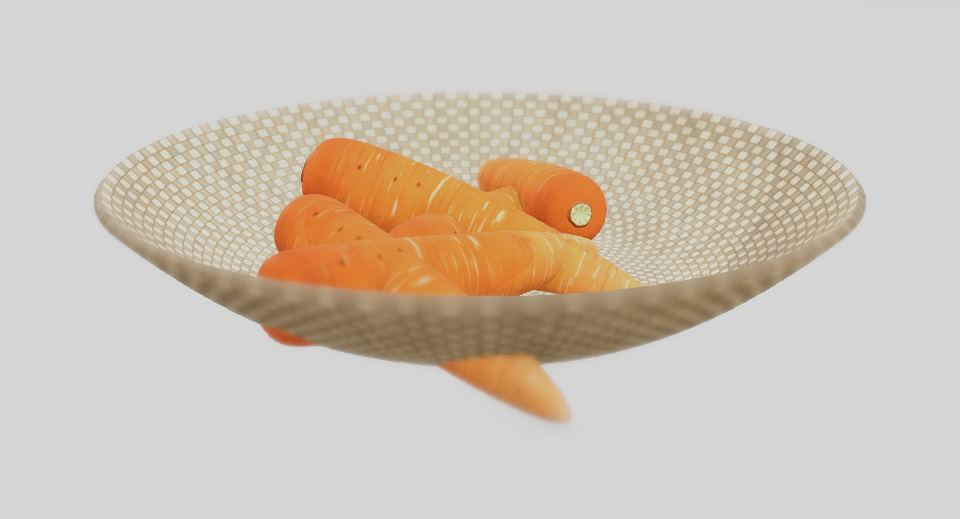
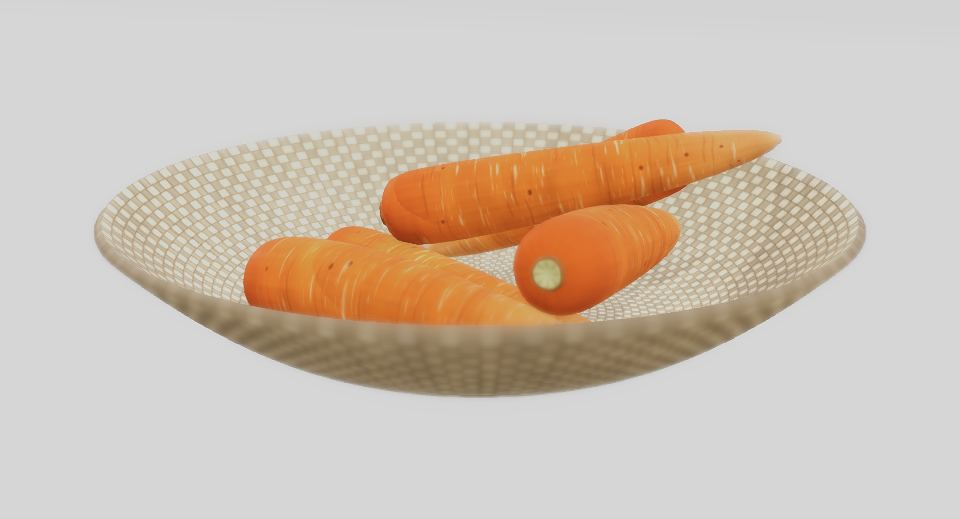
サムネイルを撮り直した（Havok の wasm を配れておらず物理が死んでいた）
野菜がざるを突き抜けて写っていた。原因は収録側で、Havok の
HavokPhysics_umd.js だけをローカルに置いて HavokPhysics.wasm を
配っていなかったこと。HavokPhysics() は自分と同じ場所から wasm を
読みに行くため初期化に失敗し、サンプルは「物理が無いときは一列に
並べる」フォールバックへ黙って落ちていた。絵は出るが、ざるは
曲面なので端の個体が壁を貫通する。

直したこと:
  ・wasm も落として application/wasm で配る
  ・撮る前に scene.getPhysicsEngine() を確かめ、動いていなければ
    そのサンプルは失敗として扱う（黙って嘘の絵を出さない）。
    ただしサクランボ・スイカ・バナナ・ブドウ・メロン・リンゴ・玉ねぎの
    7本はもともと物理を使わない単体撮りなので、ソースに
    HavokPhysics() があるサンプルにだけ課す
  ・静止判定を作り直した。剛体の速度を読んでいたつもりが1つも
    取れておらず（全サンプルで 0.00）、実質「3秒待っただけ」に
    なっていた。位置と境界ボックスの対角2点を実測して、
    前回から誰も動いていない状態が続くまで待つ

23本すべて撮り直し。物理を使う16本は、ざるに収まった状態になった。

Changed region(s): [[0.0938, 0.1541, 0.9062, 0.8324]]

diff --git a/tools/shoot.js b/tools/shoot.js
@@ -46,9 +46,10 @@ const BUILD_TIMEOUT = +(process.env.SHOOT_BUILD_TIMEOUT || 300000);
  *         そこで「もの（メッシュ）が増えず、動かなくなった」ことを見て待つ */
 const SETTLE_TIMEOUT = 150000;
 const STABLE_POLLS = 2;        // 個数がこれだけ連続で同じなら投入は済み
-const GIVEUP_POLLS = 12;       // 速度が落ちきらないサンプル用の保険
+const STILL_POLLS = 3;         // 誰も動かない状態がこれだけ続いたら完了
+const GIVEUP_POLLS = 14;       // 止まりきらないサンプル用の保険
 const POLL_EVERY = 1500;
-const SETTLE_SPEED = 1.0;      // これ以下なら「転がり終わった」（cm/s 相当）
+const SETTLE_MOVE = 0.02;      // 1回ぶんの間にこれ以下しか動かなければ静止（cm）
 
 const only = process.argv[2];
 const files = fs
@@ -150,14 +151,32 @@ window.__hideGui = function () {
            にし、静まったら STATIC に固定するので、
            「見えているものの数」と「いちばん速いものの速さ」を見れば確実 */
 window.__sig = function () {
-    var s = window.__scene; if (!s) return "0:99";
-    var n = 0, vmax = 0;
+    var s = window.__scene; if (!s) return "0:99:99";
+    var n = 0, vmax = 0, bodies = 0;
+    var cur = [];
     var list = s.meshes.concat(s.transformNodes || []);
     for (var i = 0; i < list.length; i++) {
         var m = list[i];
-        if (m.getTotalVertices && m.getTotalVertices() && m.isEnabled()) n++;
+        var real = m.getTotalVertices && m.getTotalVertices() && m.isEnabled();
+        if (real) {
+            n++;
+            // 【対策】剛体の速度だけを見ていたら、全サンプルで 0.00 と出た。
+            //         止まったからではなく読めていなかったので、落下の
+            //         途中で「静止した」と判定して撮ってしまい、野菜が
+            //         ざるを突き抜けた絵になった。位置と姿勢を実測する
+            m.computeWorldMatrix(true);
+            var p = m.getAbsolutePosition();
+            cur.push(p.x, p.y, p.z);
+            var bb = m.getBoundingInfo && m.getBoundingInfo().boundingBox;
+            if (bb) {
+                // 回転だけしているものも捉えたいので、対角の2点も見る
+                cur.push(bb.vectorsWorld[0].x, bb.vectorsWorld[0].y, bb.vectorsWorld[0].z);
+                cur.push(bb.vectorsWorld[7].x, bb.vectorsWorld[7].y, bb.vectorsWorld[7].z);
+            }
+        }
         var b = m.physicsBody;
         if (b) {
+            bodies++;
             try {
                 var v = b.getLinearVelocity().length();
                 var w = b.getAngularVelocity().length();
@@ -166,7 +185,18 @@ window.__sig = function () {
             } catch (e) { /* STATIC に落とされた後は読めないことがある */ }
         }
     }
-    return n + ":" + vmax.toFixed(2);
+    // 前回からいちばん大きく動いた距離（cm）
+    var prev = window.__prevPos, motion = 999;
+    window.__prevPos = cur;
+    if (prev && prev.length === cur.length) {
+        motion = 0;
+        for (var k = 0; k < cur.length; k += 3) {
+            var dx = cur[k] - prev[k], dy = cur[k + 1] - prev[k + 1], dz = cur[k + 2] - prev[k + 2];
+            var dd = Math.sqrt(dx * dx + dy * dy + dz * dz);
+            if (dd > motion) motion = dd;
+        }
+    }
+    return n + ":" + motion.toFixed(4) + ":" + bodies + "/" + vmax.toFixed(2);
 };
 
 /* 描かれた絵そのものを走査して、野菜の写っている範囲を返す。
@@ -288,13 +318,22 @@ window.__geoFrame = function () {
 /* 診断用。どのメッシュが枠の計算に入ったかを見る */
 window.__dump = function () {
     var s = window.__scene, out = [];
-    for (var i = 0; i < s.meshes.length; i++) {
-        var m = s.meshes[i];
-        out.push(m.name + " v=" + (m.getTotalVertices ? m.getTotalVertices() : 0) +
-            " en=" + (m.isEnabled() ? 1 : 0) + " vis=" + (m.isVisible ? 1 : 0) +
-            " r=" + (m.getBoundingInfo ? m.getBoundingInfo().boundingSphere.radiusWorld.toFixed(2) : "?"));
+    var all = s.meshes.concat(s.transformNodes || []);
+    for (var i = 0; i < all.length && i < 40; i++) {
+        var m = all[i];
+        m.computeWorldMatrix(true);
+        var p = m.getAbsolutePosition();
+        out.push(m.name +
+            " v=" + (m.getTotalVertices ? m.getTotalVertices() : 0) +
+            " en=" + (m.isEnabled() ? 1 : 0) +
+            " par=" + (m.parent ? m.parent.name : "-") +
+            " body=" + (m.physicsBody ? 1 : 0) +
+            " imp=" + (m.physicsImpostor ? 1 : 0) +
+            " y=" + p.y.toFixed(2));
     }
-    return out.join(" / ");
+    out.push("[meshes=" + s.meshes.length + " nodes=" + (s.transformNodes || []).length +
+        " engine=" + (s.getPhysicsEngine() ? "yes" : "no") + "]");
+    return out.join("  ||  ");
 };
 </script></body></html>`;
 
@@ -302,10 +341,16 @@ window.__dump = function () {
    【対策】毎回 CDN から読ませていたら、何十回も走らせるうちに
            読み込みが落ちるようになり、「組み立てが終わりません」で
            止まるサンプルが出た。手元に置いてしまえば起きない */
+/* 【対策】UMD だけ置いても足りない。HavokPhysics() は自分と同じ場所から
+ *         HavokPhysics.wasm を読みに行くので、これを配り忘れると
+ *         物理の初期化が黙って失敗する。サンプル側は物理が無ければ
+ *         「一列に並べる」フォールバックに落ちるので、絵は出るが
+ *         野菜がざるを突き抜けた状態で撮れてしまう */
 const LIBS = {
   "babylon.js": "https://cdn.babylonjs.com/babylon.js",
   "babylon.gui.min.js": "https://cdn.babylonjs.com/gui/babylon.gui.min.js",
-  "HavokPhysics_umd.js": "https://cdn.babylonjs.com/havok/HavokPhysics_umd.js"
+  "HavokPhysics_umd.js": "https://cdn.babylonjs.com/havok/HavokPhysics_umd.js",
+  "HavokPhysics.wasm": "https://cdn.babylonjs.com/havok/HavokPhysics.wasm"
 };
 const LIBDIR = path.join(require("os").tmpdir(), "vvp-shoot-lib");
 
@@ -342,7 +387,10 @@ const server = http.createServer((req, res) => {
     const name = path.basename(u.pathname);
     const p = path.join(LIBDIR, name);
     if (!LIBS[name] || !fs.existsSync(p)) { res.writeHead(404); return res.end(); }
-    res.writeHead(200, { "content-type": "application/javascript; charset=utf-8" });
+    res.writeHead(200, {
+      "content-type": name.endsWith(".wasm")
+        ? "application/wasm" : "application/javascript; charset=utf-8"
+    });
     return res.end(fs.readFileSync(p));
   }
   if (u.pathname === "/sample") {
@@ -494,6 +542,8 @@ function findChrome() {
   const done = [], failed = [];
   for (const f of files) {
     const label = f.replace(/\.js$/, "");
+    // ざるに盛るサンプルだけ物理を使う。1個だけのスタジオ撮りは使わない
+    const needsPhysics = fs.readFileSync(path.join(ROOT, f), "utf8").includes("HavokPhysics()");
     process.stdout.write("  " + label.padEnd(14, "　") + " ");
     const t0 = Date.now();
     let page = null;
@@ -520,6 +570,18 @@ function findChrome() {
         state = r.result.value || "loading";
         if (state !== "loading") break;
       }
+      if (state === "built") {
+        // 【対策】物理が死んでいても絵は出る。ただしサンプルは
+        //         「一列に並べる」フォールバックに落ちるので、
+        //         ざるを突き抜けた嘘の絵になる。撮る前に必ず確かめる
+        const phys = (await page.send("Runtime.evaluate", {
+          expression: "!!(window.__scene && window.__scene.getPhysicsEngine())",
+          returnByValue: true
+        })).result.value;
+        if (needsPhysics && !phys) {
+          throw new Error("物理エンジンが動いていません（Havok の wasm を配れていない可能性）");
+        }
+      }
       if (state !== "built") {
         // 何が読めていないのかが分からないと直しようがないので、状況を添える
         const diag = (await page.send("Runtime.evaluate", {
@@ -536,29 +598,36 @@ function findChrome() {
       // 盛り付けが終わる（増えも動きもしなくなる）まで待つ。
       // 待っているあいだは粗く描いて、物理を実時間で進める
       await page.send("Runtime.evaluate", { expression: "window.__fast(true)", returnByValue: true });
-      let lastCount = -1, same = 0, lastFrames = 0, fps = 0, vmax = 99;
+      let lastCount = -1, same = 0, still = 0, lastFrames = 0, fps = 0;
+      let motion = 999, dbg = "";
       const settleUntil = Date.now() + SETTLE_TIMEOUT;
       while (Date.now() < settleUntil) {
         await sleep(POLL_EVERY);
         const r = await page.send("Runtime.evaluate", {
           expression: "window.__sig() + '|' + window.__frames", returnByValue: true
         });
-        const [sig, fr] = String(r.result.value || "0:99|0").split("|");
-        const [cnt, vel] = sig.split(":");
+        const [sig, fr] = String(r.result.value || "0:99:0/0|0").split("|");
+        const part = sig.split(":");
+        const cnt = +part[0];
+        motion = +part[1];
+        dbg = part[2] || "";
         const drawn = (+fr) - lastFrames; lastFrames = +fr;
         fps = drawn / (POLL_EVERY / 1000);
-        vmax = +vel;
         // 【対策】絵が止まっているだけの「見せかけの安定」を弾く。
         //         描けていないなら、物理も進んでいない
-        same = (+cnt === lastCount && drawn > 2) ? same + 1 : 0;
-        lastCount = +cnt;
-        if (same >= STABLE_POLLS && vmax < SETTLE_SPEED) break;
+        const alive = drawn > 2;
+        same = (cnt === lastCount && alive) ? same + 1 : 0;
+        still = (motion < SETTLE_MOVE && alive) ? still + 1 : 0;
+        lastCount = cnt;
+        // 投入が終わり（個数が動かない）、かつ誰も動いていない状態が続いたら完了
+        if (same >= STABLE_POLLS && still >= STILL_POLLS) break;
         if (same >= GIVEUP_POLLS) break;   // 止まりきらないものは、そこで撮る
       }
       if (process.env.SHOOT_DEBUG) {
         console.log("\n    組立 " + Math.round((tBuilt - t0) / 1000) + "s" +
           "  整定 " + Math.round((Date.now() - tBuilt) / 1000) + "s" +
-          "  fps≈" + fps.toFixed(1) + "  最大速度=" + vmax.toFixed(2));
+          "  fps≈" + fps.toFixed(1) + "  最大移動=" + motion.toFixed(4) + "cm" +
+          "  剛体/速度=" + dbg);
       }
 
       // 撮る用に解像度を戻し、GUI を隠して、描き直しを待つ

diff --git a/assets/thumbs/thumbs.js b/assets/thumbs/thumbs.js
@@ -106,7 +106,7 @@ window.__THUMBS = {
     "img": "ブロッコリー.jpg",
     "bg": "#d7d7d7",
     "w": 960,
-    "h": 555
+    "h": 519
   },
   "メロン.js": {
     "img": "メロン.jpg",
@@ -124,13 +124,13 @@ window.__THUMBS = {
     "img": "ロマネスコ.jpg",
     "bg": "#d4d4d4",
     "w": 960,
-    "h": 674
+    "h": 684
   },
   "枝豆.js": {
     "img": "枝豆.jpg",
     "bg": "#cfcfcf",
     "w": 960,
-    "h": 591
+    "h": 519
   },
   "玉ねぎ.js": {
     "img": "玉ねぎ.jpg",

diff --git a/assets/play.js b/assets/play.js
@@ -103,6 +103,7 @@ function run(code) {
 
     say("組み立てています…（数秒かかります）");
     Promise.resolve().then(factory).then(function (scene) {
+        window.__playScene = scene;   // 動作確認用
         engine.runRenderLoop(function () {
             if (scene.activeCamera) scene.render();
         });
